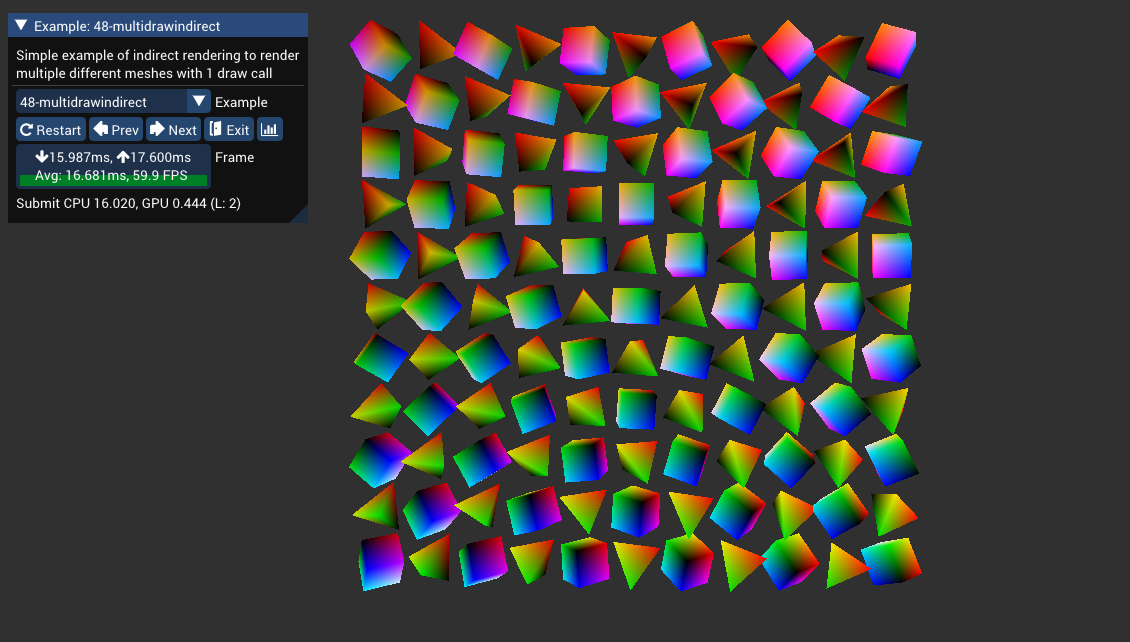
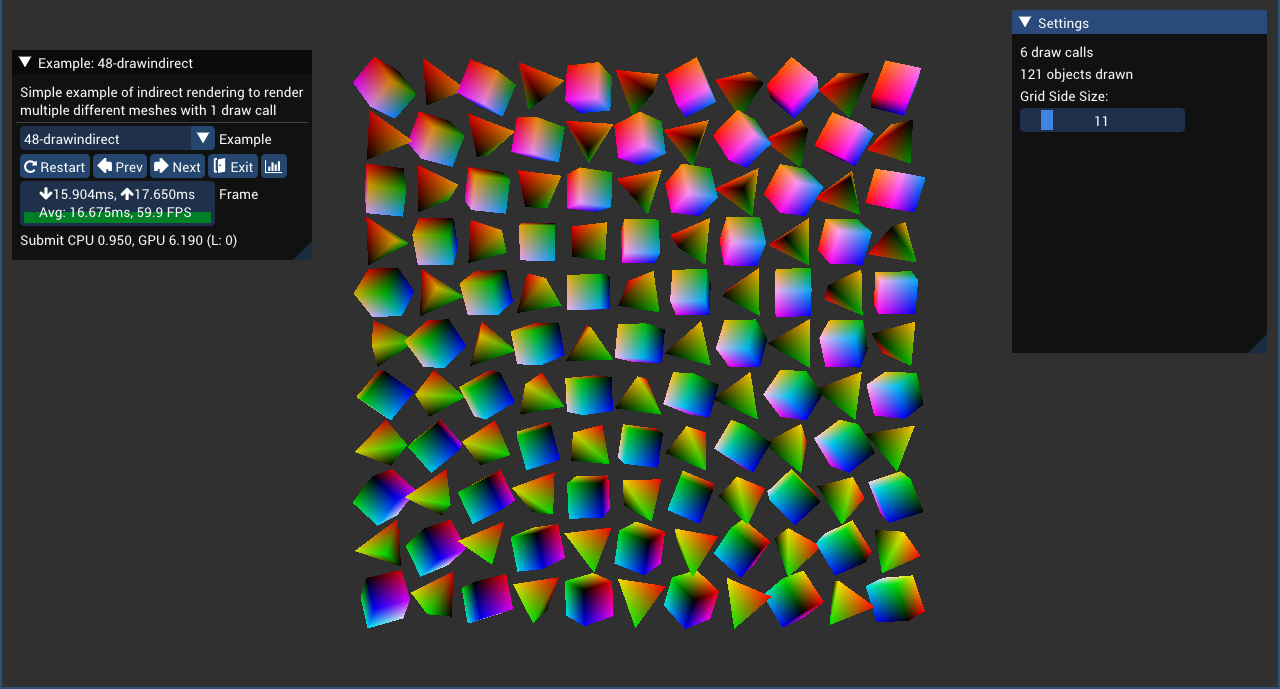
add slider to example 48-drawindirect

diff --git a/examples/48-drawindirect/drawindirect.cpp b/examples/48-drawindirect/drawindirect.cpp
@@ -119,6 +119,7 @@ static const uint16_t s_multiMeshIndices[48] =
 	1, 3, 0,
 };
 
+static const uint32_t s_maxSideSize = 81;
 
 class DrawIndirect : public entry::AppI
 {
@@ -137,7 +138,7 @@ public:
 		m_debug  = BGFX_DEBUG_TEXT;
 		m_reset  = BGFX_RESET_VSYNC;
 		m_sideSize         = 11;
-		m_nDrawElements = 121;
+		m_nDrawElements = s_maxSideSize*s_maxSideSize;
 
 		bgfx::Init init;
 		init.type     = args.m_type;
@@ -195,7 +196,8 @@ public:
 			m_indirect_program = bgfx::createProgram(loadShader("cs_drawindirect"), true);
 			m_indirect_buffer_handle = bgfx::createIndirectBuffer(m_nDrawElements);
 			
-			ObjectInstance objs[m_nDrawElements];
+			const bgfx::Memory * mem = bgfx::alloc(sizeof(ObjectInstance) * m_nDrawElements);
+			ObjectInstance* objs = (ObjectInstance*) mem->data;
 			
 			for (uint32_t ii = 0; ii < m_nDrawElements; ++ii)
 			{
@@ -218,7 +220,7 @@ public:
 			}
 			
 			// This is a list of objects to be rendered via the indirect program
-			m_object_list_buffer = bgfx::createVertexBuffer(bgfx::copy(objs, sizeof(objs) ), ObjectInstance::ms_layout, BGFX_BUFFER_COMPUTE_READ);
+			m_object_list_buffer = bgfx::createVertexBuffer(mem, ObjectInstance::ms_layout, BGFX_BUFFER_COMPUTE_READ);
 			
 			// This is the instance buffer used for rendering. 
 			// You could instead use a dynamic instance buffer when rendering (use bgfx::allocInstanceDataBuffer in draw loop)
@@ -279,6 +281,27 @@ public:
 
 			showExampleDialog(this);
 
+			ImGui::SetNextWindowPos(
+				ImVec2(m_width - m_width / 5.0f - 10.0f, 10.0f)
+				, ImGuiCond_FirstUseEver
+			);
+			ImGui::SetNextWindowSize(
+				ImVec2(m_width / 5.0f, m_height / 2.0f)
+				, ImGuiCond_FirstUseEver
+			);
+			ImGui::Begin("Settings"
+				, NULL
+				, 0
+			);
+
+			ImGui::Text("%d draw calls", bgfx::getStats()->numDraw);
+			ImGui::Text("%d objects drawn", m_sideSize*m_sideSize);
+
+			ImGui::Text("Grid Side Size:");
+			ImGui::SliderInt("##size", (int*)&m_sideSize, 1, s_maxSideSize);
+
+			ImGui::End();
+			
 			imguiEndFrame();
 			
 
@@ -298,7 +321,7 @@ public:
 				bx::mtxLookAt(view, eye, at);
 
 				float proj[16];
-				bx::mtxProj(proj, 60.0f, float(m_width)/float(m_height), 0.1f, 100.0f, bgfx::getCaps()->homogeneousDepth);
+				bx::mtxProj(proj, 60.0f, float(m_width)/float(m_height), 0.1f, 500.0f, bgfx::getCaps()->homogeneousDepth);
 				bgfx::setViewTransform(0, view, proj);
 
 				// Set view 0 default viewport.
@@ -333,14 +356,14 @@ public:
 				// Set vertex and index buffer.
 				bgfx::setIndexBuffer(m_ibh);
 				bgfx::setVertexBuffer(0, m_vbh);
-				bgfx::setInstanceDataBuffer(m_instance_buffer, 0, m_nDrawElements);
+				bgfx::setInstanceDataBuffer(m_instance_buffer, 0, m_sideSize*m_sideSize);
 				
 				// Set render states.
 				bgfx::setState(BGFX_STATE_DEFAULT);
 
 				// Submit primitive for rendering to view 0.
 				// note that this submission requires the draw count
-				bgfx::submit(0, m_program, m_indirect_buffer_handle, 0, m_nDrawElements);
+				bgfx::submit(0, m_program, m_indirect_buffer_handle, 0, m_sideSize*m_sideSize);
 			}
 			else
 			{
